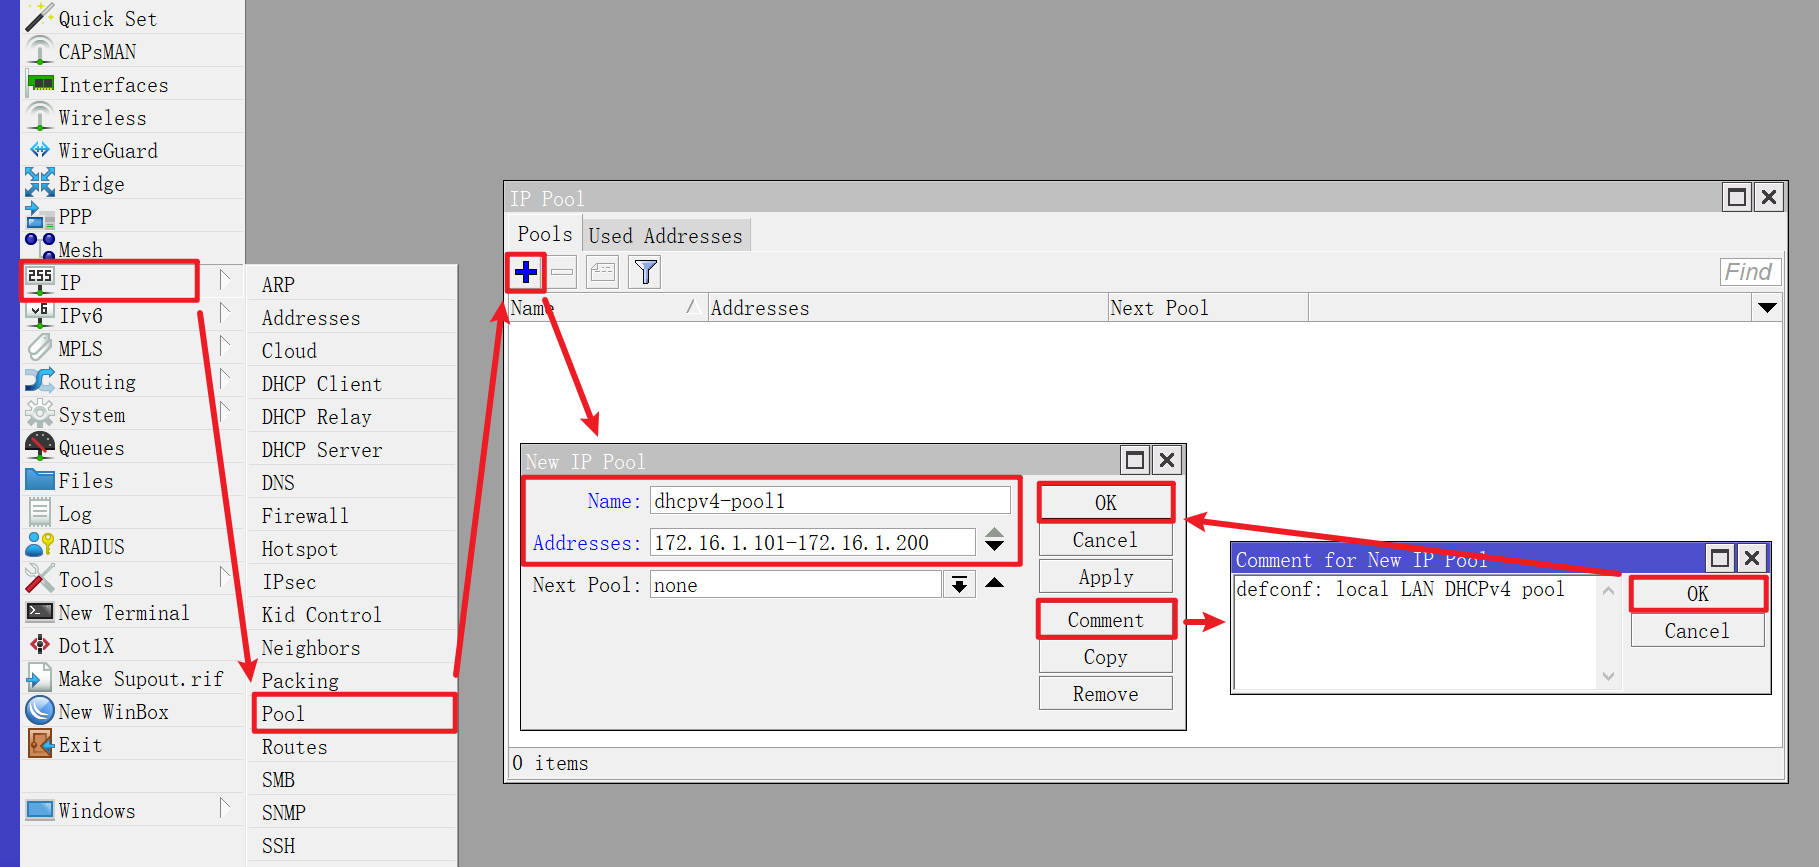
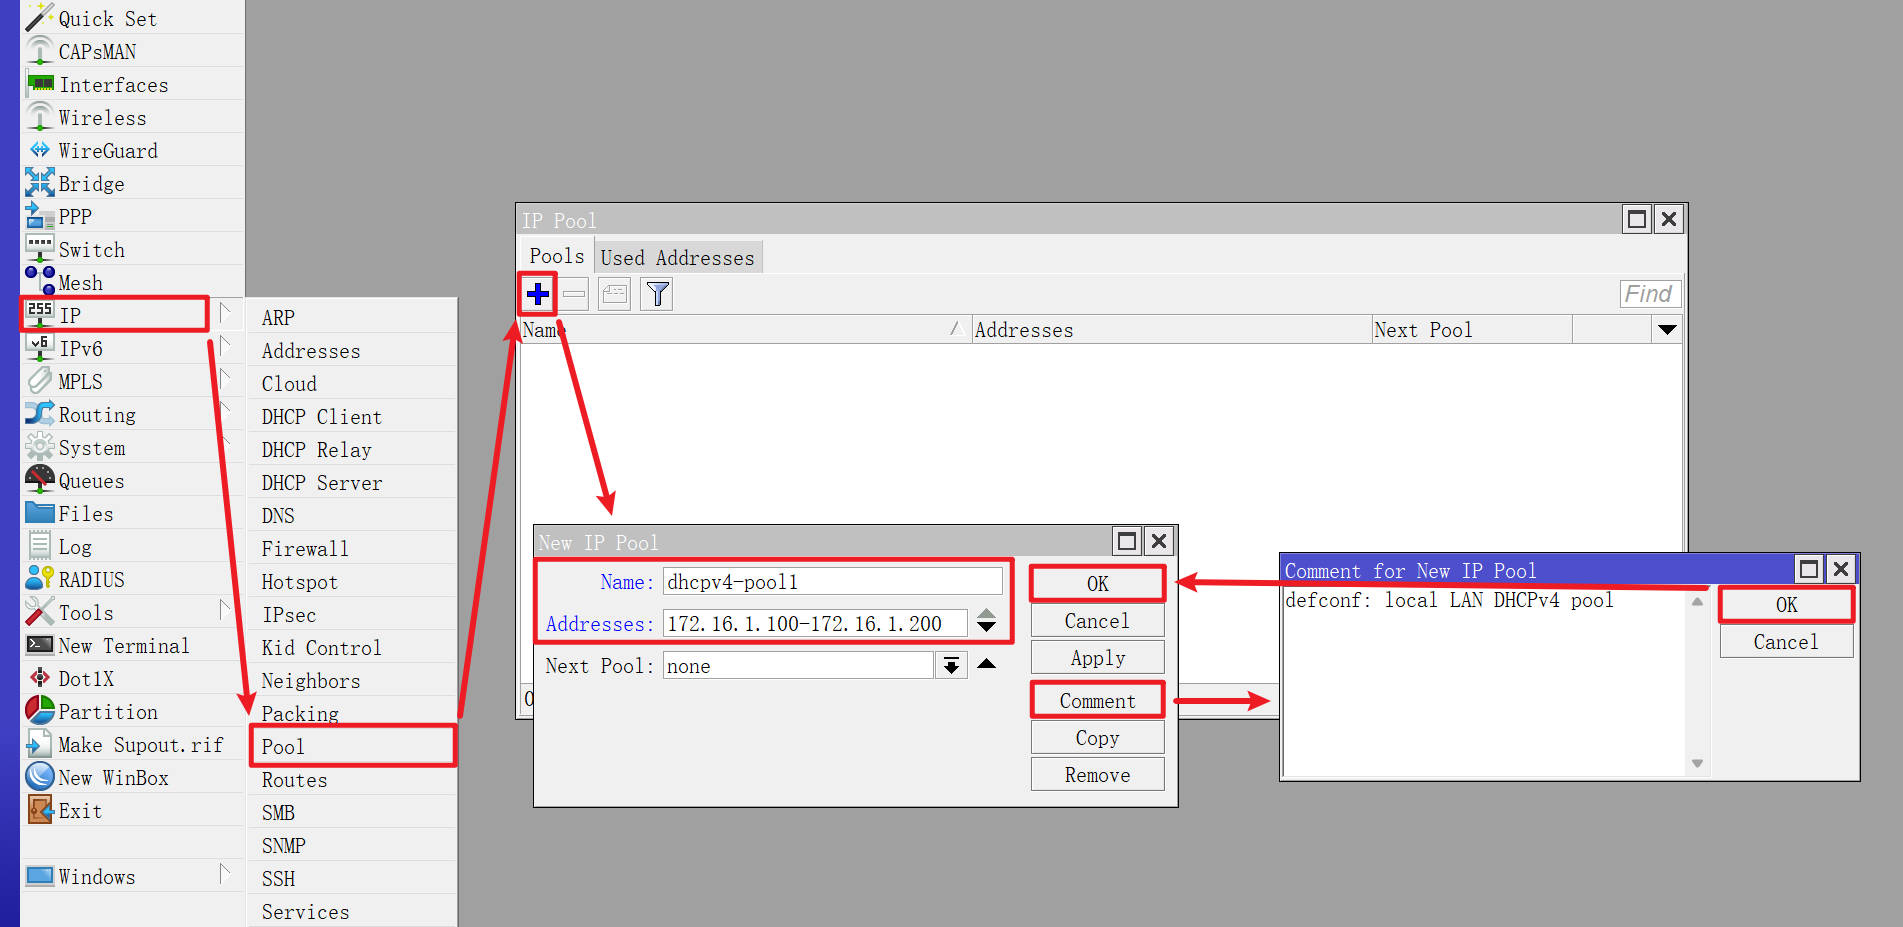
整理防火墙代码

Changed region(s): [[0.0, 0.0, 0.9852, 1.0]]

diff --git a/04.设置DHCPv4.md b/04.设置DHCPv4.md
@@ -11,12 +11,12 @@
 |参数|值|
 |--|--|
 |Name|`dhcpv4-pool1`|
-|Addresses|`172.16.1.101-172.16.1.200`|
+|Addresses|`172.16.1.100-172.16.1.200`|
 |Comment|`defconf: local LAN DHCPv4 pool`|
 
 **说明：**  
 
-在 `Addresses` 处填写的地址段为 `172.16.1.101-172.16.1.200` ，表示该地址池有 `100` 个可用 IPv4 地址。  
+在 `Addresses` 处填写的地址段为 `172.16.1.100-172.16.1.200` ，表示该地址池有 `101` 个可用 IPv4 地址。  
 
 预留地址部分将用于内网设备的静态 IPv4 地址设置，在内网设备较多的情况下，可根据实际需求加大该地址池的容量。  
 
